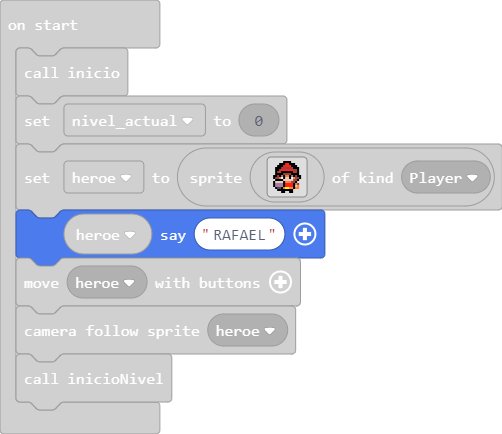
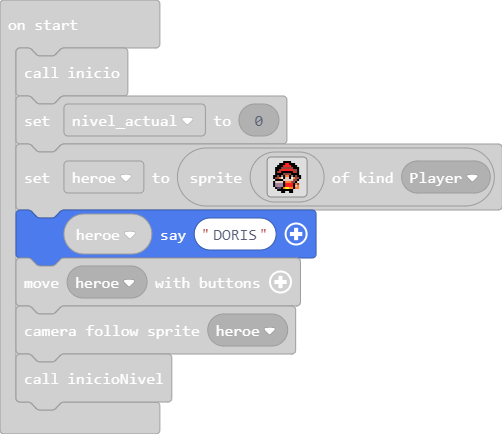
Update main.blocks, main.ts

Changed region(s): [[0.4183, 0.4793, 0.6574, 0.5991]]

diff --git a/main.ts b/main.ts
@@ -1488,7 +1488,7 @@ heroe = sprites.create(img`
 . . . f f f f f f f f . . . . . 
 . . . . . f f . . f f . . . . . 
 `, SpriteKind.Player)
-heroe.say("RAFAEL")
+heroe.say("DORIS")
 controller.moveSprite(heroe)
 scene.cameraFollowSprite(heroe)
 inicioNivel()
